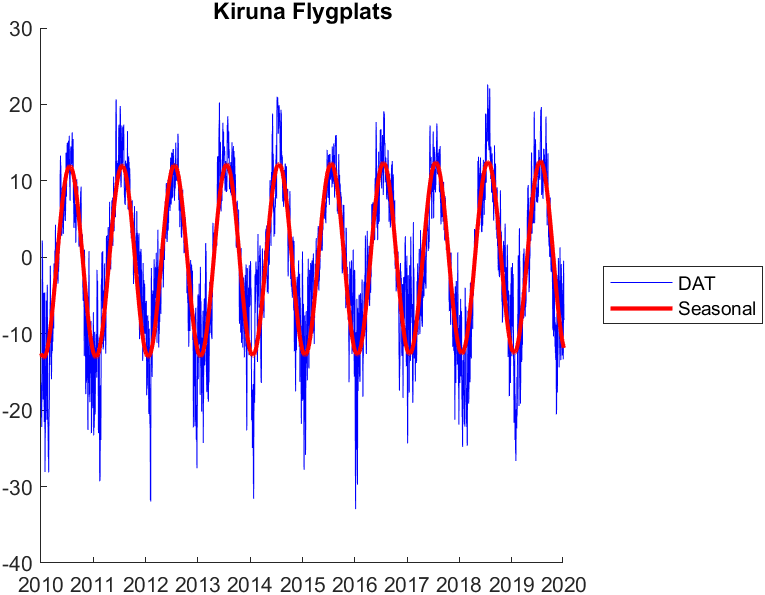
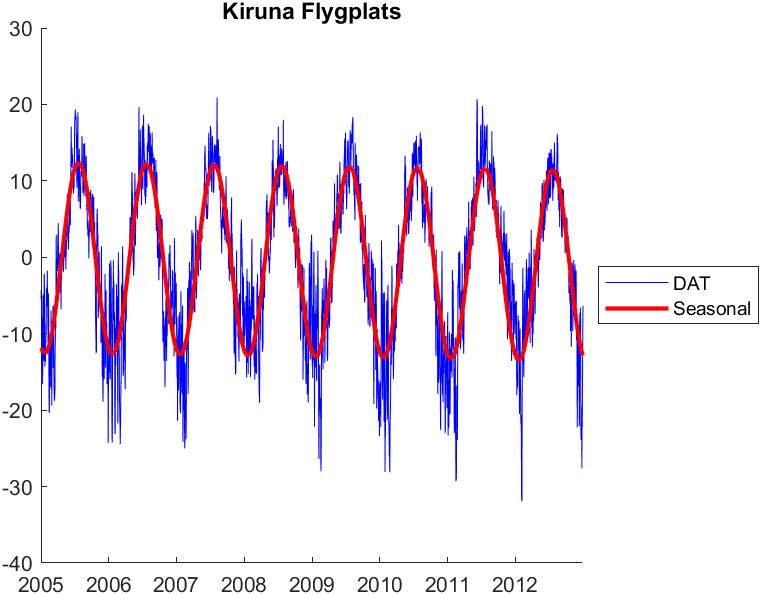
Updated date handling and deprecated IsLeapDay
Improed the date handling by adding InSample and OutOfSample datetime vectors. Deprecated the IsLeapDay function because more efficient vectorized method was found.

diff --git a/ProjectWrapper.m b/ProjectWrapper.m
@@ -23,23 +23,20 @@ end
 
 Sets(1:length(sourceFiles)) = WeatherSet;
 for k = 1 : length(Sets) % Iterate to load all chosen data sets
-    %TODO load date: Sets(1, k).DateStart = readcell(sourceFiles(k), 'range', 'A8');
-    %TODO load date: Sets(1, k).DateEnd = xlsread(sourceFiles(k), 'B8:B8');
-    Sets(1, k).FileName = sourceFiles(k);
+    Sets(1,k).FileName = sourceFiles(k);
     
-    Sets(1, k).DataSet = readtable(sourceDir + sourceFiles(k));
-    Sets(1, k).DataSet.Properties.VariableNames = {'Date', 'Time', 'Degrees', 'Quality'};
-    Sets(1, k).DataSet.Date.Format = 'default';
-    Sets(1, k).DataSet.Date = Sets(1,k).DataSet.Date + Sets(1,k).DataSet.Time;
-    Sets(1, k).DataSet.Time = []; % Remove now unneeded time column
+    Sets(1,k).DataSet = readtable(sourceDir + sourceFiles(k));
+    Sets(1,k).DataSet.Properties.VariableNames = {'Date', 'Time', 'Degrees', 'Quality'};
+    Sets(1,k).DataSet.Date.Format = 'default';
+    Sets(1,k).DataSet.Date = Sets(1,k).DataSet.Date + Sets(1,k).DataSet.Time;
+    Sets(1,k).DataSet.Time = []; % Remove now unneeded time column
     
-    %Sets(1, k).DataSet = Sets(1, k).DataSet(timerange('2005-01-01', '2019-12-31'),:);
-    Sets(1, k).DataSet = Sets(1, k).DataSet(Sets(1, k).DataSet.Date >= datetime(2005,01,01), :);
+    Sets(1,k).DataSet = Sets(1,k).DataSet(Sets(1,k).DataSet.Date >= datetime(2005,01,01),:);
     
-    Sets(1, k).Clean = timetable(Sets(1,k).DataSet.Date, Sets(1,k).DataSet.Degrees, Sets(1,k).DataSet.Quality);
-    Sets(1, k).Clean.Properties.VariableNames = {'Degrees', 'Quality'};
+    Sets(1,k).Clean = timetable(Sets(1,k).DataSet.Date, Sets(1,k).DataSet.Degrees, Sets(1,k).DataSet.Quality);
+    Sets(1,k).Clean.Properties.VariableNames = {'Degrees', 'Quality'};
     
-    Sets(1, k).ShortName = extractBefore(Sets(1, k).FileName, ' smhi-');
+    Sets(1,k).ShortName = extractBefore(Sets(1,k).FileName, ' smhi-');
 end
 
 clear sourceDir sourceFiles k; % Remove variables not to be used again
@@ -47,45 +44,53 @@ clear sourceDir sourceFiles k; % Remove variables not to be used again
 % Transform the data and calculate daily average temperatures
 
 
-% Set time range for source data
-%Sets(1,:).TimeRange = timerange('2010-01-01', '2020-01-01');
-Sets(1,1).DateStart = datetime(2010,1,1);
-Sets(1,1).DateEnd = datetime(2020,1,1);
 for k = 1 : length(Sets) % Iterate to parse all chosen data sets
-    % TODO: Filter by dates here
+    Sets(1,k).InSample = datetime(2005,01,01):datetime(2012,12,31); %timerange('2005-01-01', '2012-12-31', 'closed');
+    Sets(1,k).OutOfSample = datetime(2013,01,01):datetime(2019,12,31); %timerange('2013-01-01', '2019-12-31', 'closed');
+    Sets(1,k).InSample(month(Sets(1,k).InSample) == 2 & ...
+        day(Sets(1,k).InSample) == 29) = []; % Clean leap days
+    Sets(1,k).OutOfSample(month(Sets(1,k).OutOfSample) == 2 & ...
+        day(Sets(1,k).OutOfSample) == 29) = []; % Clean leap days
     
-    Sets(1, k).Clean = DailyAverage(Sets(1, k).Clean(:,1), settings.avgType);
-    Sets(1, k).Clean = Sets(1, k).Clean(~IsLeapDay(Sets(1, k).Clean.Time),:);
+    Sets(1,k).Clean = DailyAverage(Sets(1,k).Clean(:,1), settings.avgType);
+    Sets(1,k).Clean(month(Sets(1,k).Clean.Time) == 2 & ...
+        day(Sets(1,k).Clean.Time) == 29,:) = [];
 end
 
 % Check for nans
 for k = 1 : length(Sets)
-    n = sum(isnan(Sets(1, k).Clean.Degrees));
+    n = sum(isnan(Sets(1,k).Clean.Degrees));
     if n ~= 0
-        fprintf(2, sprintf('Set %s contains %d NaN values.\n', Sets(1, k).ShortName, n))
+        fprintf(2, sprintf('Set %s contains %d NaN values.\n', Sets(1,k).ShortName, n))
     end
 end
 
 clear k
 %% Deseasoning
 % Remove the seasonal component of the temperature
-seasonFunction = @(a0, a1, a2, a3, t) a0 + a1 * t + a2 * sin(2 * pi / 365 * (t - a3));% + a1 * (sin(2 * pi / 365 * t)).^0.1;
+seasonFunction = @(a0, a1,a2, a3, t) a0 + a1 * t + a2 * sin(2 * pi / 365 * (t - a3));% + a1 * (sin(2 * pi / 365 * t)).^0.1;
 
 X = zeros(4, length(Sets));
-FVAL = zeros(1, length(Sets));
+FVAL = zeros(1,length(Sets));
 
 for k = 1 : length(Sets) % Iterate to deseason all chosen data sets
-    [X(:, k), FVAL(1, k)] = Deseason(transpose(Sets(1, k).Clean.Degrees(end-3650:end,:)), seasonFunction, settings.fminconOptions);
+    [X(:, k), FVAL(1,k)] = ...
+        Deseason(transpose(Sets(1,k).Clean.Degrees(Sets(1,k).InSample)), ...
+        seasonFunction, length(Sets(1,k).InSample), settings.fminconOptions);
     % TODO: Add try/catch in Deseason
 end
 
 for k = 1 : length(Sets)
-    Sets(1, k).Deseasoned = Sets(1, k).Clean(end-3650:end,:);
-    Sets(1, k).Deseasoned.Degrees = Sets(1, k).Deseasoned.Degrees - transpose(seasonFunction(X(1,k), X(2,k), X(3,k), X(4,k), 0:3650));
+    Sets(1,k).Deseasoned = Sets(1,k).Clean(Sets(1,k).InSample,:);
+    Sets(1,k).Deseasoned.Degrees = Sets(1,k).Deseasoned.Degrees - ...
+        transpose(seasonFunction(X(1,k), X(2,k), X(3,k), X(4,k), ...
+        0:length(Sets(1,k).InSample)-1));
 end
 
 clear k
-%%
+%% Generation of DAT and Deseasoned plots
+% Allows for specific settings for the plots. 
+% Used to generate figures for the written thesis report.
 close ALL
 
 % Settings for figures
@@ -95,24 +100,23 @@ showSeason = true;
 showTref = false;
 showLinTrend = false;
 
-status = zeros(1, length(Sets));
+status = zeros(1,length(Sets));
 
 for k = 1 : length(Sets) % Iterate to generate DAT figures
-    [status(k)] = GenerateDATPlot(Sets(1, k), seasonFunction, X(:, k), ...
+    [status(k)] = GenerateDATPlot(Sets(1,k), seasonFunction, X(:,k), ...
         showFigures, saveFigures, showSeason, showTref, showLinTrend);
-    %fprintf(sprintf('DAT plot status: %d.\n', status(1, k)))
+    %fprintf(sprintf('DAT plot status: %d.\n', status(1,k)))
 end
 
 
 figure()
 hold on
 for k = 1 : length(Sets) % Iterate to generate deseasoned figures
-subplot(3,2,2*k-1)
-plot(Sets(1,k).Deseasoned.Time, Sets(1,k).Deseasoned.Degrees)
+    subplot(3,2,2*k-1)
+    plot(Sets(1,k).Deseasoned.Time, Sets(1,k).Deseasoned.Degrees)
 
-subplot(3,2,2*k)
-qqplot(Sets(1,k).Deseasoned.Degrees)
-
+    subplot(3,2,2*k)
+    qqplot(Sets(1,k).Deseasoned.Degrees)
 end
 hold off
 

diff --git a/Figures/GenerateDATPlot.m b/Figures/GenerateDATPlot.m
@@ -10,22 +10,22 @@ function [status] = GenerateDATPlot(Set, seasonFunction, X, ...
     
     hold on
     title(Set.ShortName)
-    plot(Set.Clean.Time(end-3650:end,:), transpose(Set.Clean.Degrees(end-3650:end,:)), 'b')
+    plot(Set.Clean.Time(Set.InSample), transpose(Set.Clean.Degrees(Set.InSample)), 'b')
     legendLabels = ["DAT"];
 
     if showSeason
-        plot(seasonFunction(X(1), X(2), X(3), X(4), 0:3650), 'r', 'LineWidth', 2)
+        plot(seasonFunction(X(1), X(2), X(3), X(4), 0:length(Set.InSample)-1), 'r', 'LineWidth', 2)
         legendLabels = [legendLabels, "Seasonal"];
     end
     
     
     if showTref
-        plot(18 .* ones(3650, 1), 'g', 'LineWidth', 2)
+        plot(18 .* ones(length(Set.InSample), 1), 'g', 'LineWidth', 2)
         legendLabels = [legendLabels, "T_r_e_f"];
     end
 
     if showLinTrend
-        plot(seasonFunction(X(1), X(2), 0, 0, 0:3650), 'c', 'LineWidth', 2)
+        plot(seasonFunction(X(1), X(2), 0, 0, 0:length(Set.InSample)-1), 'c', 'LineWidth', 2)
         legendLabels = [legendLabels, "Linear trend"];
     end
     legend(legendLabels, 'Location', 'EastOutside')

diff --git a/ParameterEstimation/Deseason.m b/ParameterEstimation/Deseason.m
@@ -1,11 +1,11 @@
-function [X, FVAL] = Deseason(temperature, seasonFunction, options) 
+function [X, FVAL] = Deseason(temperature, seasonFunction, days, options) 
 %DESEASON of temperature series
 %   Used for the deseasoning of temperature series. Requires input of the
 %   temperature, anonymous season function, and fmincon options. Will be
 %   extended to correctly handle dynamic time periods.
 
 [X, FVAL] = fmincon(@(x) sum((temperature - ...
-    seasonFunction(x(1), x(2), x(3), x(4), 0:3650)).^2), ... % TODO Change time periods to dynamic
+    seasonFunction(x(1), x(2), x(3), x(4), 0:days-1)).^2), ... % TODO Change time periods to dynamic
     [18;0.005;5;0], [], [], [], [], [], [], [], options);
 end
 

diff --git a/DataParsing/WeatherSet.m b/DataParsing/WeatherSet.m
@@ -5,10 +5,10 @@ classdef WeatherSet
     properties
         FileName % Name of .csv file
         ShortName
-        DateStart % Start date of data
-        DateEnd % Last date of data
+        InSample % Time range of in-sample data
+        OutOfSample % Time range for out-of-sample
         DataSet % Data array
-        Clean
+        Clean % Set of cleaned DATs
         Deseasoned
     end
 end

diff --git a/DataParsing/IsLeapDay_DEPRECATED.m b/DataParsing/IsLeapDay_DEPRECATED.m
@@ -1,6 +1,7 @@
-function [ld] = IsLeapDay(d)
+function [ld] = IsLeapDay_DEPRECATED(d)
 %UNTITLED Summary of this function goes here
 %   Detailed explanation goes here
+% Usage: Sets(1,k).Clean = Sets(1,k).Clean(~IsLeapDay(Sets(1,k).Clean.Time),:);
 
 ld = false(1, length(d));
 
